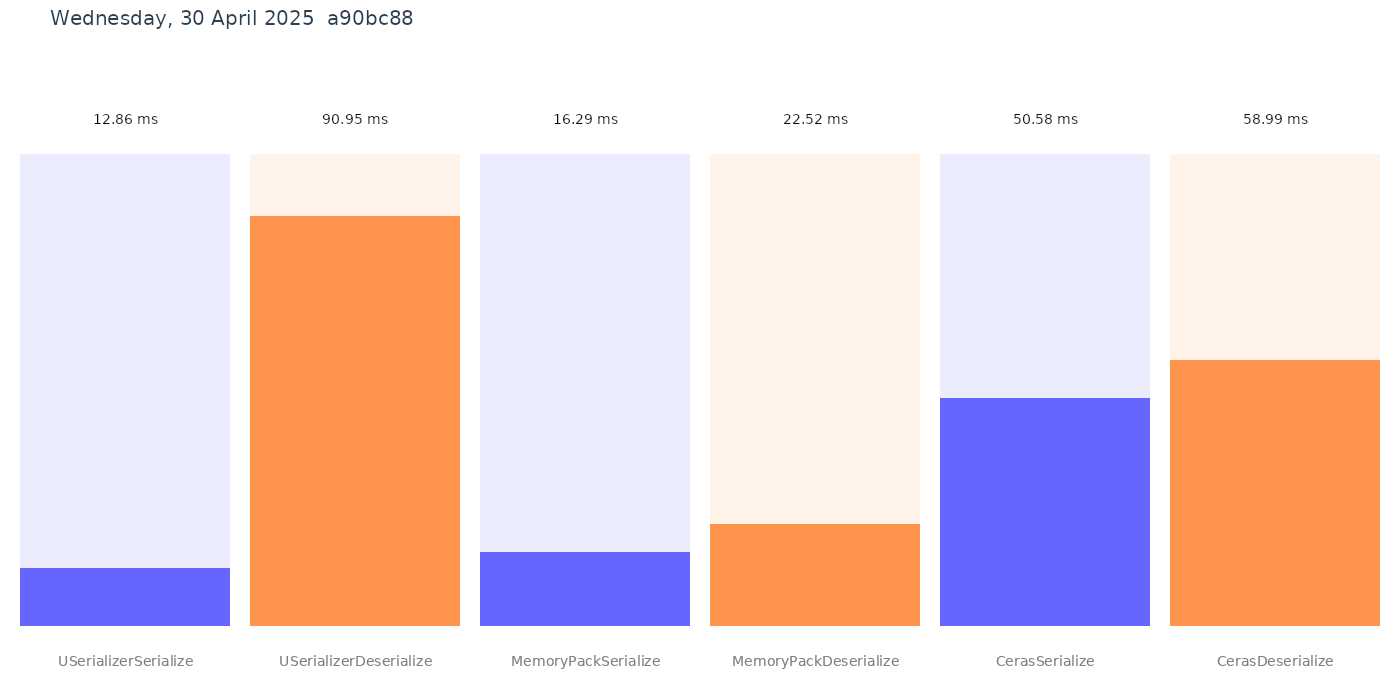
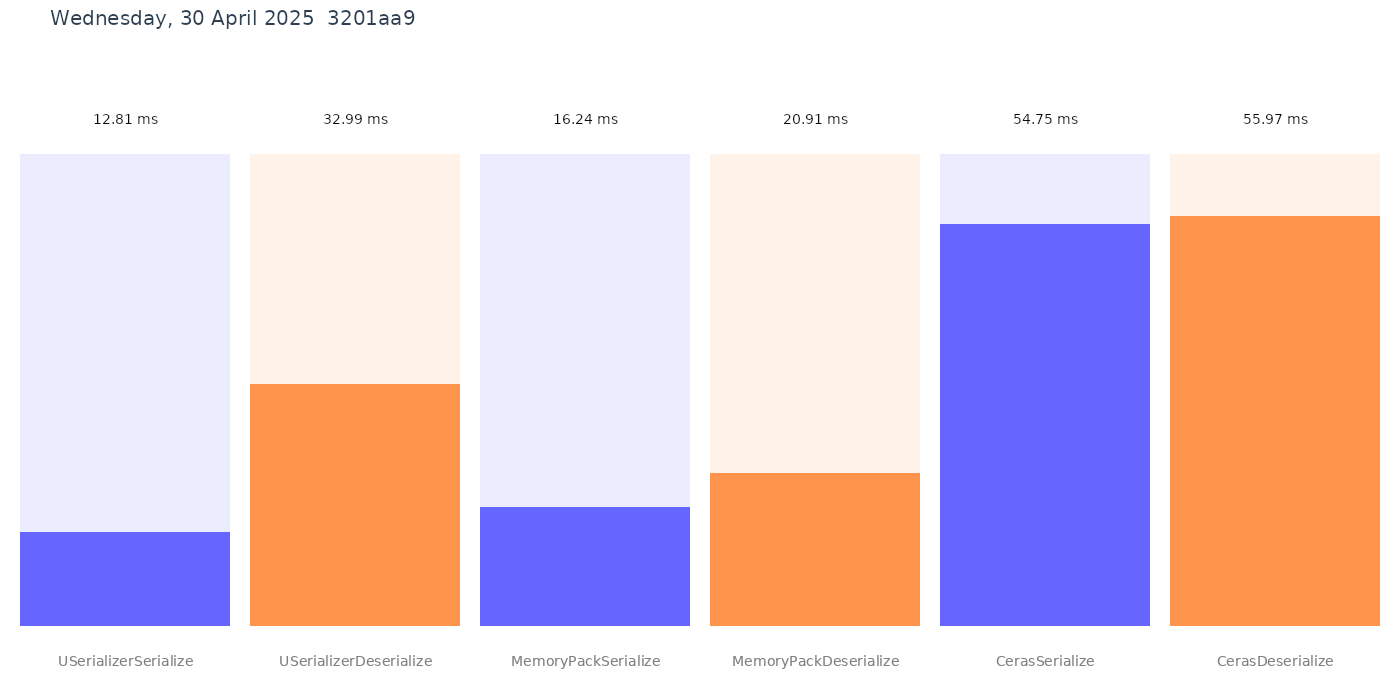
deploy: 3201aa9487b71ab8faa60aa35147d4ac285c0876

diff --git a/performance.md b/performance.md
@@ -12,9 +12,9 @@ WarmupCount=3
 ```
 |                 Method |     Mean |    Error |   StdDev |
 |----------------------- |---------:|---------:|---------:|
-|   USerializerSerialize | 12.86 ms | 2.242 ms | 0.123 ms |
-| USerializerDeserialize | 90.95 ms | 8.619 ms | 0.472 ms |
-|    MemoryPackSerialize | 16.29 ms | 0.040 ms | 0.002 ms |
-|  MemoryPackDeserialize | 22.52 ms | 0.788 ms | 0.043 ms |
-|         CerasSerialize | 50.58 ms | 5.387 ms | 0.295 ms |
-|       CerasDeserialize | 58.99 ms | 1.487 ms | 0.082 ms |
+|   USerializerSerialize | 12.81 ms | 0.088 ms | 0.005 ms |
+| USerializerDeserialize | 32.99 ms | 3.784 ms | 0.207 ms |
+|    MemoryPackSerialize | 16.24 ms | 0.901 ms | 0.049 ms |
+|  MemoryPackDeserialize | 20.91 ms | 2.725 ms | 0.149 ms |
+|         CerasSerialize | 54.75 ms | 2.991 ms | 0.164 ms |
+|       CerasDeserialize | 55.97 ms | 2.468 ms | 0.135 ms |
